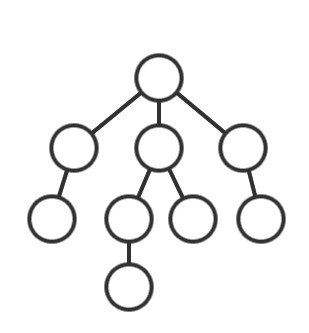
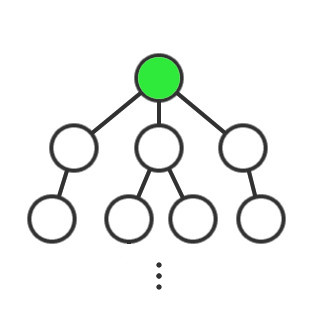
updated classical-ai.... againgit add .!

Changed region(s): [[0.3204, 0.7207, 0.5243, 0.961], [0.4369, 0.1502, 0.5825, 0.3003]]

diff --git a/assets/js/my_js/classical-ai/lfig-1_car-game.js b/assets/js/my_js/classical-ai/lfig-1_car-game.js
@@ -1,37 +1,57 @@
 
 let map_dim = {w:100,h:100};
+
+// images
 let tilemap_alpha;
 let tilemap;
 let car_img;
+let startMenu_img;
+let startMenublind_img;
+let redMarker_img;
+let tilemapbild_alpha
 
-const thisdiv = document.getElementById("Lfig-1");
-const thispwidth    = thisdiv.offsetWidth;
+let playdemo   = 0;
+let markerAnim = 0;
+
+const thisdiv     = document.getElementById("Lfig-1");
+const thispwidth  = thisdiv.offsetWidth;
 
 var sketch1 = function(p){
+
     let redcar;
     p.preload = function(){
-        tilemap       = p.loadImage("../../../assets/imgs/posts_imgs/classical-ai/body/lfigs/Tile_map.png",function(){console.log("yey!")},function(){console.log("no!")})
-        tilemap_alpha = p.loadImage("../../../assets/imgs/posts_imgs/classical-ai/body/lfigs/Tile_map_collision.png")
-        car_img       = p.loadImage("../../../assets/imgs/posts_imgs/classical-ai/body/lfigs/c2.png")
-        // p.setup();
-    }
+        tilemap       = p.loadImage("../../../assets/imgs/posts_imgs/classical-ai/body/lfigs/Tile_map.png",function(){console.log("yey!")},function(){console.log("no!")});
+        tilemap_alpha = p.loadImage("../../../assets/imgs/posts_imgs/classical-ai/body/lfigs/Tile_map_collision.png");
+        tilemapblind_alpha = p.loadImage("../../../assets/imgs/posts_imgs/classical-ai/body/lfigs/Tile_map_collision_blind.png");
+        car_img       = p.loadImage("../../../assets/imgs/posts_imgs/classical-ai/body/lfigs/c2.png");
+        startMenu_img = p.loadImage("../../../assets/imgs/posts_imgs/classical-ai/body/lfigs/startMenu.jpg");
+        startMenublind_img = p.loadImage("../../../assets/imgs/posts_imgs/classical-ai/body/lfigs/startMenu_blind.jpg");
+        redMarker_img = p.loadImage("../../../assets/imgs/posts_imgs/classical-ai/body/lfigs/only_marker.png");
+       }
+
     p.setup = function(){
-        // console.log("done preloading",tilemap,tilemap_alpha,car_img);
-        
+
         let cvs = p.createCanvas(400,400);
         cvs.parent("#Lfig-1");
 
         console.log("inside setup")
         redcar = new car(tilemap_alpha);
 
-        // p.noLoop();
-
+        p.noLoop();
     }
+
     p.draw = function(){
         p.background(100);
-        p.image(tilemap,0,0,400,400);
 
-        // console.log("inside draw")
+        if(playdemo){
+            p.image(tilemap,0,0,400,400);
+            
+        }
+        else{
+            p.image(startMenu_img,0,0,400,400);
+            return null;
+        }
+
         if (redcar.reach_dest){
             menu(p);
         }
@@ -55,12 +75,20 @@ var sketch1 = function(p){
             }
 
 
-        }
 
+        }
 
         redcar.display(p,car_img);
 
-        // p.draw();
+        if(redcar.reach_dest ==0){
+
+            destMarker(p,markerAnim,[345, 163],[10,30]);
+            // destMarker(p,markerAnim,[145, 323],[10,30]);
+            // p.image(redMarker_img,0,Math.floor(Math.sin(markerAnim)*10) -10 ,400,400);
+            markerAnim += .05;
+
+        }
+
     }
 
     p.windowResized = function(){
@@ -68,24 +96,42 @@ var sketch1 = function(p){
     }
 
     p.mouseClicked = function(){
-
-        if( redcar.reach_dest){
-            redcar.pos        = {x:70,y:70};
-            redcar.reach_dest = false;
+        if(is_insideCanvas(p)){
+            if(!playdemo){
+                playdemo = 1;
+                p.loop(); 
+            }
+            if( redcar.reach_dest){
+                redcar.pos        = {x:70,y:70};
+                redcar.reach_dest = false;
+            }
         }
     }
+
+}
+
+function destMarker(p,theta,pos,radRange){
+
+    p.noFill();
+    p.strokeWeight(10);
+    p.stroke(235,0,0);
+    // p.stroke(255,0,0,Math.floor(Math.sin(markerAnim)*250) + (Math.floor((1-Math.sin(markerAnim))*150)));
+    let radius = Math.floor(Math.sin(theta)*radRange[0]) + (Math.floor((1-Math.sin(theta))*radRange[1]));
+    p.ellipse(pos[0],pos[1],radius,radius);
+
+    p.fill(255);
+
 }
 
 function menu(p){
 
-    p.fill(80,120)
-    p.rect(0,0,p.width,p.height) 
+    p.fill(80,120);
+    p.rect(0,0,p.width,p.height);
 
     p.fill(250,255);
     p.textSize(20);
     p.text("\t\tBravo!\n You Reached Your Destination",Math.floor(p.width*.1),p.height/2);
 
-    
 }
 
 function car(map){
@@ -95,9 +141,6 @@ function car(map){
     this.stepsize   = 1;
     this.map        = map;
     this.reach_dest = 0;
-    // this.velocity    = 0;
-    // this.accleration = 0;
-
     
     this.checkcollision = function(npos){
         let tpos = {x: Math.floor(((npos.x)**1)/(4)),y:Math.floor(((npos.y)**1)/(4))}; // in which tile he is at
@@ -123,7 +166,7 @@ function car(map){
         switch(dir){
             case("right"):
                 newpos.x += this.stepsize;
-                this.rotation = Math.PI/2;
+                this.rotation =  Math.PI/2;
             break;
 
             case("left"):
@@ -138,7 +181,7 @@ function car(map){
 
            case("down"):
                 newpos.y += this.stepsize;
-                this.rotation = Math.PI
+                this.rotation =  Math.PI
             break;
 
             default:

diff --git a/assets/js/my_js/classical-ai/lfig-2_car-game-blind.js b/assets/js/my_js/classical-ai/lfig-2_car-game-blind.js
@@ -1,7 +1,8 @@
 
 let glayer_blind;
 let glayer_menu; // menu
-
+let playdemo_blind = 0;
+let markerAnim_blind =0;
 var sketch2 = function(p){
     let redcar;
 
@@ -11,17 +12,18 @@ var sketch2 = function(p){
         let cvs = p.createCanvas(400,400);
         cvs.parent("#Lfig-2");
         p.pixelDensity(1);
-        glayer_blind = p.createGraphics(100*.5,100*.5);
-        glayer_menu  = p.createGraphics(p.width,p.height);
 
         console.log("inside setup",glayer_blind)
-        redcar = new car(tilemap_alpha);
+        redcar = new car(tilemapblind_alpha);
+
 
     }
     p.draw = function(){
-        p.background(100);
-        p.image(tilemap,0,0,400,400);
         
+        if(playdemo_blind == 1){
+            p.background(100);
+            p.image(tilemap,0,0,400,400);
+        glayer_blind.image(startMenublind_img,0,0,400,400);
         glayer_blind.background(0,255);
         glayer_blind.fill(0);
 
@@ -41,6 +43,8 @@ var sketch2 = function(p){
             }
         }
         glayer_blind.updatePixels();
+        // destMarker(p,markerAnim_blind,[345, 163],[10,30]);
+        destMarker(p,markerAnim_blind,[145, 323],[10,30]);
 
         if (redcar.reach_dest){
             menu(glayer_menu);
@@ -69,6 +73,17 @@ var sketch2 = function(p){
             p.image(glayer_blind,0,0,400,400);
 
         }
+            
+        }
+        else{ 
+            // p.image(startMenu_img,0,0,400,400);
+            p.image(startMenublind_img,0,0,400,400);
+            // p.FrameRate(1);
+            
+            // return null;
+        }
+
+        markerAnim_blind += .05;
 
     }
 
@@ -77,8 +92,26 @@ var sketch2 = function(p){
     }
 
     p.mouseClicked = function(){
-        redcar.pos        = {x:70,y:70};
-        redcar.reach_dest = false;
+        if (is_insideCanvas(p)){
+            if(!playdemo_blind){
+                glayer_blind   = p.createGraphics(100*.5,100*.5);
+                glayer_menu    = p.createGraphics(p.width,p.height);
+                playdemo_blind = 1;
+                p.loop();
+                p.FrameRate(60);
+            }
+
+            redcar.pos        = {x:70,y:70};
+            redcar.reach_dest = false;
+
+        }
     }
+}
+
+function is_insideCanvas(p){
+    if(p.mouseX > 0 && p.mouseX < 400 && p.mouseY > 0 && p.mouseY < 400)
+        return true;
+
+    return false;
 }
 var s2 = new p5(sketch2);

diff --git a/_sass/minimal-mistakes.scss b/_sass/minimal-mistakes.scss
@@ -56,6 +56,6 @@
 #discription{
     font-size:17px;
     font-style:italic;
-    font-weight: 600;
+    font-weight: 400;
     color: gray;
 }

diff --git a/_posts/2019-1-24-classical_ai.md b/_posts/2019-1-24-classical_ai.md
@@ -54,6 +54,7 @@ In recent years, Aritificial Intelligence has recieved a lot of attention thanks
 <a class="image-popup" href="{{site.url}}{{site.baseurl}}/assets/imgs/posts_imgs/classical-ai/body/fofai.jpg" title="classicalAI chart">
 <img src="{{site.url}}{{site.baseurl}}/assets/imgs/posts_imgs/classical-ai/body/fofai.jpg">
 </a>
+
 <span id="discription">fig 1.1 : fields that influence A.I </span>
 {: .text-center}
 
@@ -69,7 +70,11 @@ let's take a simple problem (see, L-fig (1.2)), suppose you have an appointment 
 
 {: .text-center}
 
-<div id="Lfig-1" style="width: inherit"></div>
+<div id="Lfig-1" style="position: relative; z-index: 1; width: 400px; height: 400px; margin-left: auto; margin-right: auto; background-color: red;">
+
+</div>
+{: .text-center}
+
 <span id="discription">L-fig 1.2: use W,A,S,D keys to move the car and reach the destination (red marker)</span>
 {: .text-center}
 
@@ -84,7 +89,7 @@ state space is what you see i.e, the physical configuration of our problem.(like
 
 {% include gallery id="search_space" %}
 
-<span id="discription">fig-1.3(a)(left),fig1.3(b)(center) and fig 1.3(c)(right)</span>
+<span id="discription">fig-1.3(a)(left),fig1.3(b)(center) and fig 1.3(c)(right): where, green node represent start state and red node represent the goal state (we will learn more about this later in this blog post.) </span>
 {: .text-center}
 
 <a class="image-popup" href="{{site.baseurl}}/assets/imgs/posts_imgs/classical-ai/body/search_space_disc.jpg">
@@ -110,7 +115,7 @@ use W,A,S,D to find out our destination... don't worry you are not late this tim
 
 {: .text-center}
 <div id="Lfig-2" style="width: inherit"></div>
-<span id="discription">L-fig 1.5: drive the car and find your destination</span>blind run
+<span id="discription">L-fig 1.5: drive the car and find your destination</span>
 {: .text-center}
 
 <script src="{{site.baseurl}}/assets/js/my_js/classical-ai/lfig-2_car-game-blind.js"></script>
@@ -132,12 +137,12 @@ More-Techinically, in DFS we take the neighbours/childs of the current node and 
 
 for javascript implimentation, click <a id="post-link" target="_blank" href="https://github.com/MrityunjayBhardwaj/Classical_AI/blob/master/Classical_Search/DFS.js" >here</a>.
 
-<img src="{{site.baseurl}}/assets/imgs/posts_imgs/classical-ai/body/dfs_viz.gif"/>
+<img src="{{site.baseurl}}/assets/imgs/posts_imgs/classical-ai/body/dfs_viz_2.gif" width="300px" />
 {: .text-center}
 
 {: .text-center}
 <span id="discription">
-fig 1.7: dfs in action, see how it works <i><a id="post-link" target="blank_" href="{{site.baseurl}}/assets/js/my_js/classical-ai/page/DFS_Viz/index.html"> under the hood </a></i> 
+fig 1.7: dfs in action, see how it works <i><a id="post-link" target="blank_" href="{{site.baseurl}}/assets/js/my_js/classical-ai/page/DFS_Viz/index.html"> under the hood </a></i>.
 </span>
 {: .text-center}
 
@@ -196,11 +201,12 @@ In Greedy best-first search we choose the evaluation function to just be the dis
 
 $$f(x) = h(x)$$
 
-
 {: .text-center}
 <a class="image-popup" href="{{site.baseurl}}/assets/imgs/posts_imgs/classical-ai/body/Greedy_bfs_weight_map.jpg">
-<img src="{{site.baseurl}}/assets/imgs/posts_imgs/classical-ai/body/Greedy_bfs_weight_map.jpg"/>
+<img src="{{site.baseurl}}/assets/imgs/posts_imgs/classical-ai/body/Greedy_bfs_weight_map.jpg" width="400px"/>
 </a>
+{: .text-center}
+
 <span id="discription">fig 1.11:Weight map of Greedy Best-first Search</span>
 {: .text-center}
 
@@ -211,17 +217,21 @@ apart from calculating the distance from a perticular state to our goal state ($
 $$f(x) = h(x) + e(x)$$
 
 <a class="image-popup" href="{{site.baseurl}}/assets/imgs/posts_imgs/classical-ai/body/Astar_weight_map.jpg">
-<img src="{{site.baseurl}}/assets/imgs/posts_imgs/classical-ai/body/Astar_weight_map.jpg"/>
+<img src="{{site.baseurl}}/assets/imgs/posts_imgs/classical-ai/body/Astar_weight_map.jpg" width="400px"/>
 </a>
+{: .text-center}
+
 <span id="discription">fig 1.12 : Weight map of A* Search</span>
 {: .text-center}
 
-Question: why most of the values are the same??  (Hint: see the formula)
+Question: why most of the values are the same??  (Hint: see the formula!!)
 
 
 <a class="image-popup" href="{{site.baseurl}}/assets/imgs/posts_imgs/classical-ai/body/Astar_search.gif">
-<img src="{{site.baseurl}}/assets/imgs/posts_imgs/classical-ai/body/Astar_search.gif"/>
+<img src="{{site.baseurl}}/assets/imgs/posts_imgs/classical-ai/body/Astar_search.gif" width="400px" />
 </a>
+{: .text-center}
+
 <span id="discription">fig 1.12 : using A* search on our problem</span>
 {: .text-center}
 
